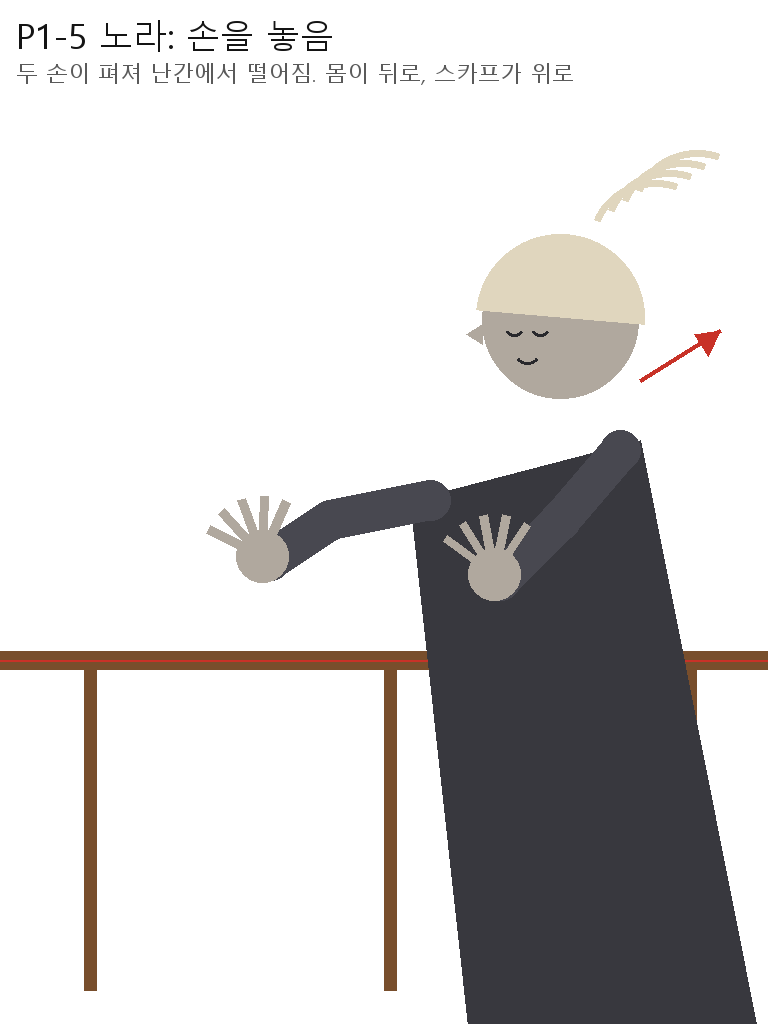
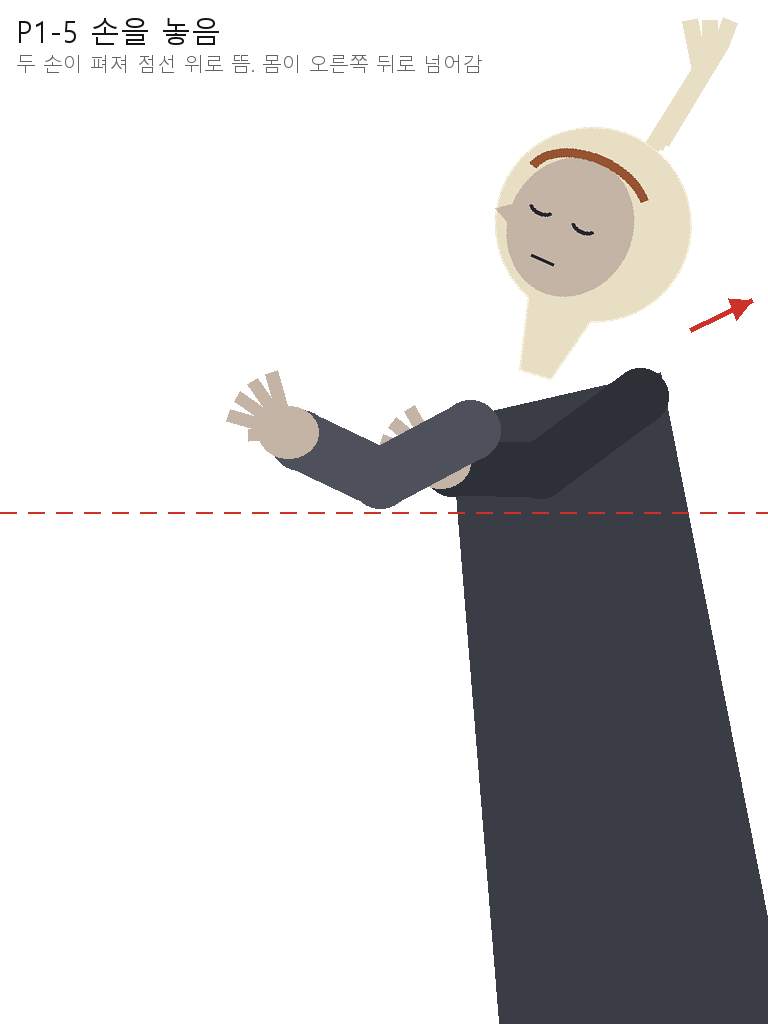
W1: 배 그림을 새 옆모습으로 교체하고, 1인칭 난간 컷에 노라 다섯 자세를 넣음
- 배: 낮 그림 두 장(켜짐, 꺼짐)을 밤의 배, 불빛 지도, 번짐, 물속 불빛 네 장으로 손질
- 노라: 다섯 자세의 얼굴색을 맞춰 낱장으로 저장, 표정 전환과 손 내밀기, 손 놓기 연출
- 자세 안내 그림을 새 구도(난간 없이, 손 높이 점선)로 다시 그림
- 루트의 임시 그림(scratch_*)은 추적하지 않음

diff --git a/frontend/src/components/question/sink/RailPov.tsx b/frontend/src/components/question/sink/RailPov.tsx
@@ -7,21 +7,27 @@ import type { Mood } from './sternScene';
 /**
  * 난간 장면(W1)의 가까운 컷: 난간을 붙든 내 눈으로 본 1인칭.
  *
- * 얼굴을 그리지 않고 "손"으로 연기한다. 난간 위에 내 두 손이 있고, 오른쪽에 곁의 승객(노라)의 두 손이 있다.
- *  - 노라의 손은 기분에 따라 다르게 떤다(두려움: 잘게 빠르게, 흐느낌: 크게 들썩임, 가라앉음: 거의 멎음).
- *  - 갑판이 가팔라질수록 손이 난간에서 미끄러졌다가 다시 움켜쥔다.
- *  - 손을 잡으면 내 오른손이 건너가 노라의 손등을 덮어 쥔다. 모진 말을 하면 노라의 손이 움찔 물러난다.
- *  - 노라가 손을 놓으면 손가락이 펴지며 난간 아래로 사라진다. 내가 떨어지면 내 손이 펴지고 난간이 위로 날아간다.
+ * 난간 위에 내 두 손이 있고, 오른쪽에 곁의 승객(노라)이 난간을 쥐고 서 있다.
+ *  - 노라는 기분에 따라 그림이 바뀐다(두려움, 흐느낌, 가라앉음). 몸과 손은 같은 그림이라 얼굴만 바뀌어 보인다.
+ *  - 손을 잡으면 노라가 한 손을 내밀고, 내 오른손이 건너가 노라의 손을 덮어 쥔다. 모진 말을 하면 노라가 조금씩 물러난다.
+ *  - 노라가 손을 놓으면 두 손이 펴지며 뒤로 넘어가 사라진다. 내가 떨어지면 내 손이 펴지고 난간이 위로 날아간다.
  * 난간 너머로는 밤바다와 수평선이 보이고, 배가 기울수록 수평선이 크게 기운다. 수평선에는 멀어진 구명선의 등불 하나가 떠 있다.
  * 배의 불이 켜져 있는 동안에는 손과 난간에 따뜻한 빛이 닿고, 불이 꺼지면 차가운 별빛만 남는다.
  *
- * 그림은 이미 있는 것을 쓴다: q7/rail_grip(난간), ui/hand_*_r(내 손), ui/hand_*_f(노라의 손), swim/sea_plate(W2 와 같은 밤하늘과 바다).
+ * 그림: sink/nora_pov_*(노라 다섯 자세. 손이 쥔 난간 토막이 함께 그려져 있어, 그 토막을 눈앞의 난간에 겹쳐 놓는다),
+ *  q7/rail_grip(난간), ui/hand_*_r(내 손), swim/sea_plate(W2 와 같은 밤하늘과 바다).
  */
 
 /** 단계별 갑판의 기울기(도). 수평선과 난간이 서로 반대로 기울어 합이 이만큼 벌어진다 */
 const TILT = [5, 10, 16, 23, 33];
 
 type Kind = 'grab' | 'open' | 'reach';
+/** 노라의 자세 그림(896x1200). 다섯 장 모두 난간 토막이 같은 높이(RAIL_FY)에 그려져 있다 */
+const NORA = ['afraid', 'sob', 'calm', 'reach', 'letgo'] as const;
+type NoraPose = (typeof NORA)[number];
+const NORA_RAIL_FY = 745 / 1200;
+/** 그림 안에서 노라의 가까운 쪽 주먹이 있는 가로 자리 */
+const NORA_FIST_FX = 0.16;
 /** 손 그림의 크기와, 그림 안에서 "쥐는 자리"(난간에 놓일 점)의 비율 */
 const META: Record<'m' | 'f', Record<Kind, { src: string; w: number; h: number; ax: number; ay: number; k: number }>> = {
   m: {
@@ -83,36 +89,34 @@ export default function RailPov({ show, beat, hand, mood, gone, falling, togethe
 
   // 손을 잡는 순간: 잠깐 뻗는 손 모양을 거쳐 쥔 모양으로 바뀐다
   const [reaching, setReaching] = useState(false);
+  const [offering, setOffering] = useState(false); // 노라가 손을 내밀고 있는 동안
   const wasHand = useRef(false);
   useEffect(() => {
     if (hand && !wasHand.current) {
       wasHand.current = true;
       const a = setTimeout(() => setReaching(true), 0);
       const id = setTimeout(() => setReaching(false), 520);
-      return () => { clearTimeout(a); clearTimeout(id); };
+      const b = setTimeout(() => setOffering(true), 0);
+      const c = setTimeout(() => setOffering(false), 1500);
+      return () => { clearTimeout(a); clearTimeout(id); clearTimeout(b); clearTimeout(c); };
     }
     if (!hand) wasHand.current = false;
   }, [hand]);
-  // 모진 말: 그때마다 노라의 손이 조금씩 더 멀어진다
+  // 모진 말: 그때마다 노라가 조금씩 더 물러난다
   const away = Math.min(3, kickKey);
 
-  const hw = S * 0.47, fw = S * 0.29;
-  const herX = S * (0.83 + away * 0.04), herFarX = S * (1.02 + away * 0.045);
+  const hw = S * 0.4;
+  const NW = S * 1.02, NH = NW * (1200 / 896);
+  const noraX = S * (0.29 + away * 0.035);
+  const fistX = noraX + NW * NORA_FIST_FX;
   const holding = hand && !gone;
-  const myR = holding ? { x: herX - S * 0.1, y: -S * 0.03, rotate: -36 } : { x: S * 0.47, y: 0, rotate: -14 };
-  // 노라의 손이 떠는 모양
-  const calmer = holding ? 0.45 : 1;
-  const shiver = reduce ? {} : mood === 'afraid'
-    ? { x: [0, 1.8 * calmer, -1.3 * calmer, 1.5 * calmer, -1.9 * calmer, 0], y: [0, -1.1 * calmer, 1.4 * calmer, -0.8 * calmer, 1.0 * calmer, 0] }
-    : mood === 'sob' ? { x: [0, 0.6, 0, -0.5, 0], y: [0, 4.2 * calmer, 0.6, 3.2 * calmer, 0] } : { x: [0, 0.4, 0], y: [0, 0.9, 0] };
-  const shiverT = mood === 'afraid' ? { duration: 0.26, repeat: Infinity, ease: 'linear' as const } : mood === 'sob' ? { duration: 1.5, repeat: Infinity, ease: 'easeInOut' as const } : { duration: 3.2, repeat: Infinity, ease: 'easeInOut' as const };
-  // 가팔라질수록 자주, 더 많이 미끄러진다
-  const slip = reduce || beat < 1 || holding ? {} : { y: [0, 0, 5 + beat * 3, -1, 0], rotate: [0, 0, 3, 0, 0] };
-  const slipT = { duration: 5.4 - beat * 0.7, repeat: Infinity, times: [0, 0.8, 0.87, 0.94, 1], ease: 'easeOut' as const };
+  const pose: NoraPose = gone ? 'letgo' : offering ? 'reach' : mood;
+  // 내밀어진 손은 난간 아래에 있다: 그 손을 잡으러 내려갔다가, 함께 난간으로 돌아온다
+  const myR = holding ? (offering ? { x: noraX + NW * 0.56, y: NW * 0.13, rotate: -40 } : { x: fistX - S * 0.02, y: -S * 0.02, rotate: -32 }) : { x: S * 0.24, y: 0, rotate: -14 };
   const flyRail = falling ? { y: -vp.h * 1.5 } : { y: 0 };
   const flyT = { duration: 0.6, ease: 'easeIn' as const };
 
-  const railW = S * 5.2, railH = railW * (496 / 2000);
+  const railW = S * 3.1, railH = railW * (496 / 2000);
 
   return (
     <div aria-hidden className="pointer-events-none absolute inset-0 z-[5] overflow-hidden bg-[#02050b]" style={{ opacity: show ? 1 : 0, transition: 'opacity .14s linear' }}>
@@ -135,54 +139,46 @@ export default function RailPov({ show, beat, hand, mood, gone, falling, togethe
             transition={!lit ? { duration: 0.25 } : beat === 2 ? { duration: 2.3, repeat: Infinity, ease: 'linear' } : { duration: 0.6 }} />
 
           {/* 난간과 손: 난간의 윗대가 이 묶음의 원점(0,0)을 지난다 */}
-          <motion.div className="absolute left-1/2 top-[41%]" style={{ width: 0, height: 0 }} initial={false} animate={{ rotate: tilt * 0.38 }} transition={{ duration: 5, ease: 'easeInOut' }}>
+          <motion.div className="absolute left-1/2 top-[47%]" style={{ width: 0, height: 0 }} initial={false} animate={{ rotate: tilt * 0.38 }} transition={{ duration: 5, ease: 'easeInOut' }}>
             <div className="absolute" style={{ left: -S / 2, top: 0, width: 0, height: 0 }}>
               <motion.div className="absolute" initial={false} animate={flyRail} transition={flyT}>
                 {/* eslint-disable-next-line @next/next/no-img-element */}
                 <img src="/q7/rail_grip.webp" alt="" draggable={false} className="absolute max-w-none"
-                  style={{ left: S / 2 - railW / 2 + S * 0.31, top: -railH * (90 / 496), width: railW, height: railH, filter: lit ? 'brightness(.62) sepia(.45) saturate(1.2) hue-rotate(-12deg)' : 'brightness(.42) saturate(.7)', transition: 'filter 1.4s ease' }} />
-                {/* 노라의 두 손 (함께 떨어질 때 가까운 손은 내 손과 함께 남는다) */}
-                {[0, 1].map((far) => {
-                  if (far === 0 && falling && together) return null;
-                  return (
-                    <motion.div key={far} className="absolute" style={{ width: 0, height: 0, opacity: far ? 0.82 : 1 }} initial={false}
-                      animate={gone ? { x: (far ? herFarX : herX) + S * 0.16, y: S * 0.95, rotate: 46, opacity: 0 } : { x: far ? herFarX : herX, y: 0, rotate: far ? 15 : 9 }}
-                      transition={gone ? { duration: far ? 0.95 : 1.25, ease: 'easeIn', delay: far ? 0 : 0.35 } : { type: 'spring', stiffness: 160, damping: 13 }}>
-                      <motion.div animate={gone ? {} : slip} transition={{ ...slipT, delay: far ? 1.3 : 0 }}>
-                        <motion.div animate={gone ? {} : shiver} transition={shiverT}>
-                          <motion.div key={far ? 'far' : `near-${squeezeKey}`} initial={{ scale: far || squeezeKey === 0 ? 1 : 0.92 }} animate={{ scale: 1 }} transition={{ duration: 0.5 }}>
-                            <Hand who="f" kind={gone ? 'open' : 'grab'} flip w={far ? fw * 0.86 : fw} lit={lit} />
-                          </motion.div>
-                        </motion.div>
-                      </motion.div>
-                    </motion.div>
-                  );
-                })}
+                  style={{ left: S / 2 - railW / 2 + S * 0.31, top: -railH * (90 / 496), width: railW, height: railH, filter: lit ? 'grayscale(.8) brightness(.66) sepia(.2)' : 'grayscale(.9) brightness(.42)', transition: 'filter 1.4s ease' }} />
+              </motion.div>
+
+              {/* 노라: 자세 그림 다섯 장을 겹쳐 두고 지금 것만 보인다. 손을 놓으면 뒤로 넘어가 사라지고, 내가 혼자 떨어지면 난간과 함께 위로 멀어진다 */}
+              <motion.div className="absolute" style={{ width: 0, height: 0, transformOrigin: `${NW * 0.6}px ${NH * 0.2}px` }} initial={false}
+                animate={gone ? { x: noraX + S * 0.3, y: S * 0.55, rotate: 16, opacity: [1, 1, 0] }
+                  : falling && !together ? { x: noraX, y: -vp.h * 1.5, rotate: 0, opacity: 1 }
+                  : falling ? { x: noraX - S * 0.04, y: S * 0.12, rotate: -5, opacity: 1 } : { x: noraX, y: 0, rotate: 0, opacity: 1 }}
+                transition={gone ? { duration: 1.5, ease: 'easeIn', delay: 0.7, times: [0, 0.55, 1] } : falling ? flyT : { type: 'spring', stiffness: 120, damping: 15 }}>
+                <motion.div animate={reduce || gone || falling ? {} : mood === 'sob' ? { y: [0, 2.4, 0.4, 1.8, 0] } : mood === 'afraid' ? { x: [0, 0.5, -0.4, 0] } : {}} transition={mood === 'sob' ? { duration: 1.5, repeat: Infinity, ease: 'easeInOut' } : { duration: 0.24, repeat: Infinity, ease: 'linear' }}>
+                  {NORA.map((k) => (
+                    // eslint-disable-next-line @next/next/no-img-element
+                    <img key={k} src={`/sink/nora_pov_${k}.webp`} alt="" draggable={false} className="absolute max-w-none select-none"
+                      style={{ left: 0, top: -NH * NORA_RAIL_FY, width: NW, height: NH, opacity: pose === k ? 1 : 0, transition: `opacity ${k === 'letgo' ? 0.2 : 0.4}s ease, filter 1.4s ease`,
+                        filter: lit ? 'brightness(.96) sepia(.16) saturate(1.05)' : 'brightness(.6) saturate(.8)' }} />
+                  ))}
+                </motion.div>
               </motion.div>
 
               {/* 어깨와 외투의 어둠: 팔뚝이 바다 위에 떠 보이지 않도록, 손 아래를 몸의 그림자로 채운다 */}
-              <span className="absolute rounded-[50%]" style={{ left: -S * 0.36, top: S * 0.07, width: S * 1.32, height: S * 1.5, background: 'radial-gradient(closest-side, rgba(2,4,8,.98) 74%, rgba(2,4,8,0) 100%)' }} />
-              {!gone && !falling && <span className="absolute rounded-[50%]" style={{ left: herX - S * 0.22, top: S * 0.05, width: S * 0.9, height: S * 1.3, background: 'radial-gradient(closest-side, rgba(2,4,8,.97) 74%, rgba(2,4,8,0) 100%)' }} />}
-              {/* 함께 떨어질 때: 노라의 손은 내 손 아래에 그대로 쥐여 있다 */}
-              {falling && together && (
-                <motion.div className="absolute" style={{ width: 0, height: 0 }} initial={{ x: herX, y: 0, rotate: 9 }} animate={{ x: herX - S * 0.05, y: S * 0.1, rotate: 2 }} transition={{ duration: 0.6 }}>
-                  <Hand who="f" kind="grab" flip w={fw} lit={lit} />
-                </motion.div>
-              )}
+              <span className="absolute rounded-[50%]" style={{ left: -S * 0.5, top: S * 0.07, width: S * 1.22, height: S * 1.5, background: 'radial-gradient(closest-side, rgba(2,4,8,.98) 74%, rgba(2,4,8,0) 100%)' }} />
               {/* 내 왼손 */}
               <motion.div className="absolute" style={{ width: 0, height: 0 }} initial={false}
-                animate={falling ? { x: S * 0.16, y: S * 0.14, rotate: 4 } : { x: S * 0.17, y: 0, rotate: 20 }} transition={falling ? { duration: 0.5 } : { duration: 0.4 }}>
+                animate={falling ? { x: S * 0.02, y: S * 0.14, rotate: 4 } : { x: S * 0.03, y: 0, rotate: 20 }} transition={falling ? { duration: 0.5 } : { duration: 0.4 }}>
                 <motion.div animate={reduce || falling ? {} : { x: [0, 0.7, -0.6, 0], y: [0, 0.6, -0.5, 0] }} transition={{ duration: 0.4, repeat: Infinity, ease: 'linear' }}>
                   <Hand who="m" kind={falling ? 'open' : 'grab'} flip w={hw} lit={lit} />
                 </motion.div>
               </motion.div>
               {/* 내 오른손: 손을 잡으면 노라의 손등 위로 건너간다 */}
               <motion.div className="absolute" style={{ width: 0, height: 0 }} initial={false}
-                animate={falling ? (together ? { x: herX - S * 0.085, y: S * 0.07, rotate: -32 } : { x: S * 0.56, y: S * 0.16, rotate: -6 }) : myR}
+                animate={falling ? (together ? { x: fistX - S * 0.06, y: S * 0.1, rotate: -32 } : { x: S * 0.34, y: S * 0.16, rotate: -6 }) : myR}
                 transition={falling ? { duration: 0.5 } : { type: 'spring', stiffness: 90, damping: 14 }}>
                 <motion.div animate={reduce || falling ? {} : { x: [0, -0.7, 0.6, 0], y: [0, -0.5, 0.6, 0] }} transition={{ duration: 0.36, repeat: Infinity, ease: 'linear' }}>
                   <motion.div key={`sq-${squeezeKey}`} initial={{ scale: squeezeKey === 0 ? 1 : 0.9 }} animate={{ scale: 1 }} transition={{ duration: 0.55 }}>
-                    <Hand who="m" kind={falling && !together ? 'open' : reaching ? 'reach' : 'grab'} flip={false} w={hw} lit={lit} />
+                    <Hand who="m" kind={falling && !together ? 'open' : reaching || (holding && offering) ? 'reach' : 'grab'} flip={false} w={hw} lit={lit} />
                   </motion.div>
                 </motion.div>
               </motion.div>

diff --git a/frontend/src/components/question/sink/sternScene.ts b/frontend/src/components/question/sink/sternScene.ts
@@ -49,15 +49,15 @@ const PIV = { x: 150, y: 0 };
 const TH = [6, 12, 19, 28, 47];
 const SINK = [2, 5, 8, 11, 20];
 /** 배 그림이 놓이는 자리(배 좌표, 미터): 그림 속 수면선이 y=0, 뱃머리 끝이 x=0 */
-const IMG = { x: -3.394, y: -72.55, w: 274.93, h: 87.4 };
-const DECK_Y = -17.2;
-const RAIL_Y = -18.3;
+const IMG = { x: -8.73, y: -58.1, w: 281.6, h: 70.53 };
+const DECK_Y = -16.4;
+const RAIL_Y = -17.5;
 const ME_X = 258;
 const HER_X = 259;
 const POOP_X0 = 233;
 /** 굴뚝 꼭대기(배 좌표) */
-const FUNNELS = [77.8, 112.9, 148];
-const FUNNEL_TOP = -47.5;
+const FUNNELS = [77.9, 112.3, 147.4];
+const FUNNEL_TOP = -42.6;
 /** 배가 갈라지는 자리와, 찢어진 단면의 들쭉날쭉한 선 */
 const BREAK_X = 165;
 const JAG: [number, number][] = [[166, -80], [166, -24], [163.4, -20.5], [167.2, -16.5], [164, -12], [168, -7.5], [163.2, -2.5], [166.6, 3.5], [163.8, 8.5], [165.4, 20]];
@@ -588,7 +588,7 @@ export function createSternScene(canvas: HTMLCanvasElement, opts: SternSceneOpti
       pieces(() => {
         slices(imLight, imLight.naturalWidth, imLight.naturalHeight, 1 - brown);
         if (lightDim && brown > 0.01) slices(lightDim, lightDim.width, lightDim.height, brown);
-        if (ready(imGlow)) slices(imGlow, imGlow.naturalWidth, imGlow.naturalHeight, 0.6);
+        if (ready(imGlow)) slices(imGlow, imGlow.naturalWidth, imGlow.naturalHeight, 0.85);
       });
       g.globalCompositeOperation = 'source-over';
     }
